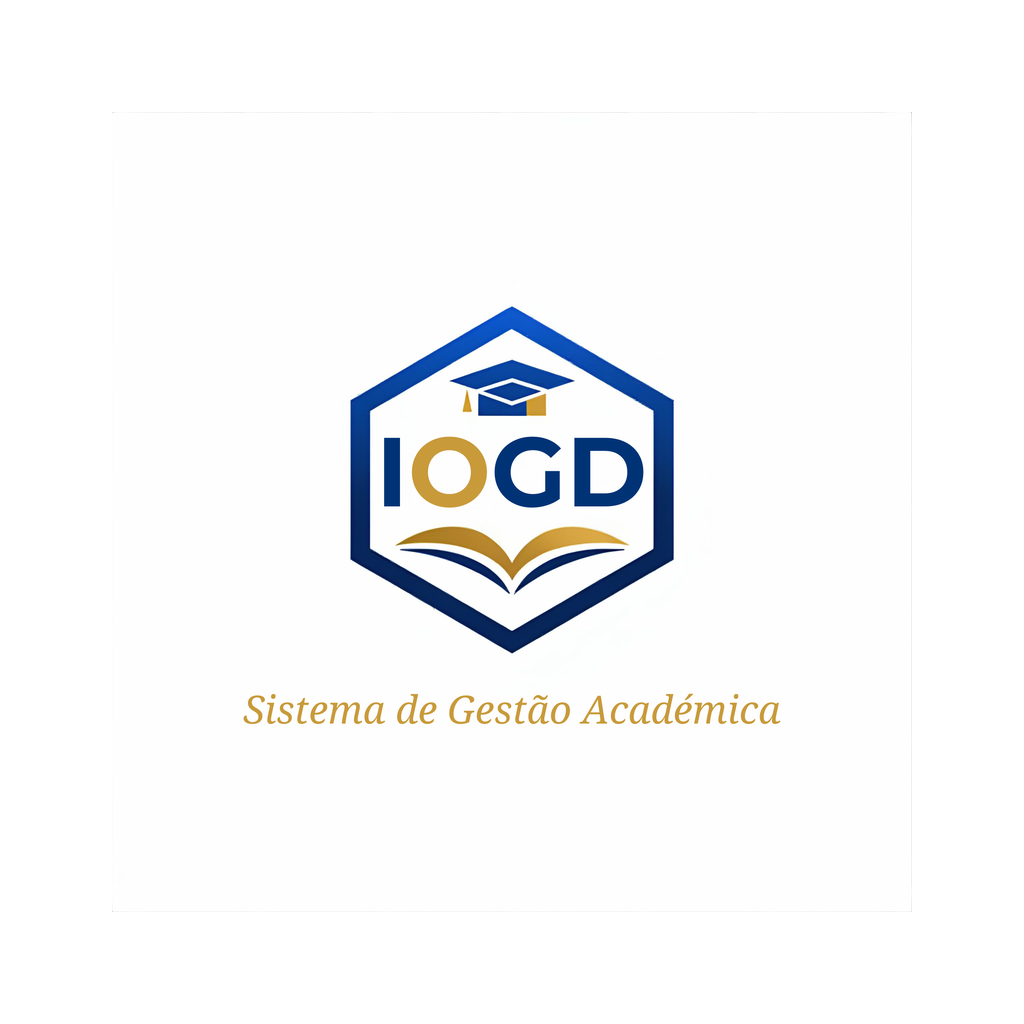
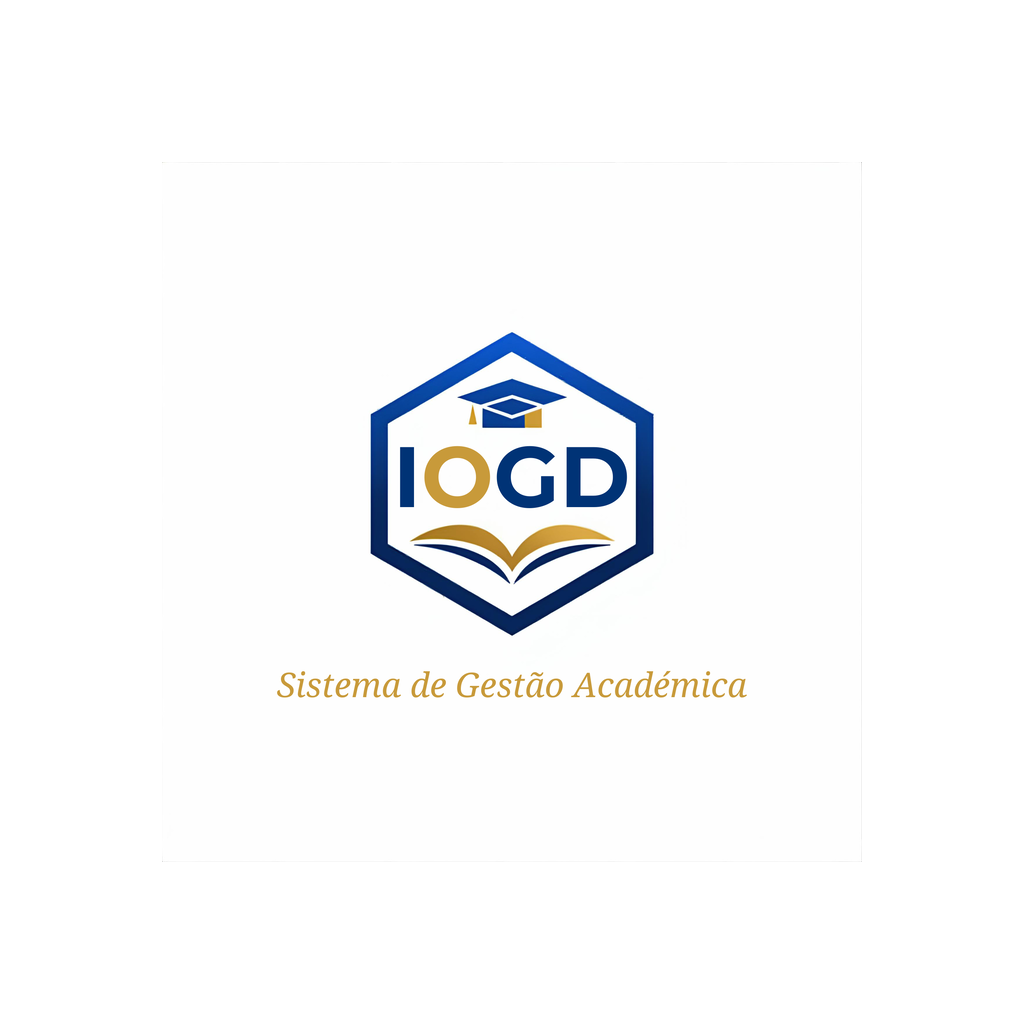
Update app configuration and assets for improved branding and functionality
Update app.config.js to set the app icon, splash screen, and adaptive icon background to white, configure production URL fallback, and add necessary plugins for camera, image picker, and location permissions.

Replit-Commit-Author: Agent
Replit-Commit-Session-Id: 2b6241ff-f5e6-4bef-9ad2-2e6cdaac2eee
Replit-Commit-Checkpoint-Type: full_checkpoint
Replit-Commit-Event-Id: d008e270-1280-4519-8d75-10b76410b4a0
Replit-Commit-Screenshot-Url: https://storage.googleapis.com/screenshot-production-us-central1/b29220f0-f6bf-4345-be57-e7f4174f6579/2b6241ff-f5e6-4bef-9ad2-2e6cdaac2eee/7qSKuSF
Replit-Helium-Checkpoint-Created: true

Changed region(s): [[0.25, 0.2812, 0.7812, 0.7188]]

diff --git a/app.config.js b/app.config.js
@@ -1,4 +1,3 @@
-const IS_DEV = process.env.NODE_ENV !== "production";
 const REPLIT_DEV_DOMAIN = process.env.REPLIT_DEV_DOMAIN || "";
 const REPLIT_DOMAINS = process.env.REPLIT_DOMAINS || "";
 
@@ -6,7 +5,7 @@ const origin = REPLIT_DOMAINS
   ? `https://${REPLIT_DOMAINS.split(",")[0].trim()}`
   : REPLIT_DEV_DOMAIN
   ? `https://${REPLIT_DEV_DOMAIN}`
-  : "https://localhost:5000";
+  : "https://sgaa.angola.ao";
 
 module.exports = {
   expo: {
@@ -21,7 +20,7 @@ module.exports = {
     splash: {
       image: "./assets/images/splash-icon.png",
       resizeMode: "contain",
-      backgroundColor: "#0D1B3E",
+      backgroundColor: "#FFFFFF",
     },
     ios: {
       supportsTablet: false,
@@ -36,7 +35,7 @@ module.exports = {
     android: {
       package: "com.sgaa.angola",
       adaptiveIcon: {
-        backgroundColor: "#0D1B3E",
+        backgroundColor: "#FFFFFF",
         foregroundImage: "./assets/images/android-icon-foreground.png",
         backgroundImage: "./assets/images/android-icon-background.png",
         monochromeImage: "./assets/images/android-icon-monochrome.png",
@@ -62,6 +61,31 @@ module.exports = {
       "expo-font",
       "expo-web-browser",
       "expo-local-authentication",
+      [
+        "expo-camera",
+        {
+          cameraPermission:
+            "Necessário para digitalizar códigos QR e tirar fotografias.",
+          microphonePermission:
+            "Necessário para gravar vídeo.",
+        },
+      ],
+      [
+        "expo-image-picker",
+        {
+          photosPermission:
+            "Permite seleccionar fotografias da galeria.",
+          cameraPermission:
+            "Permite tirar fotografias directamente.",
+        },
+      ],
+      [
+        "expo-location",
+        {
+          locationAlwaysAndWhenInUsePermission:
+            "Permite aceder à localização para funcionalidades geográficas.",
+        },
+      ],
     ],
     experiments: {
       typedRoutes: true,
